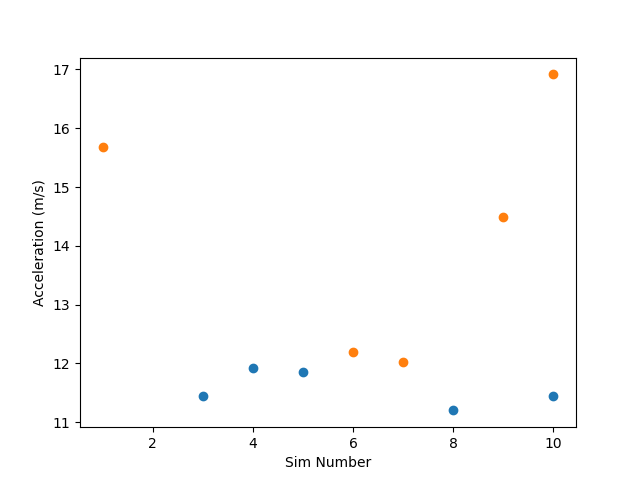
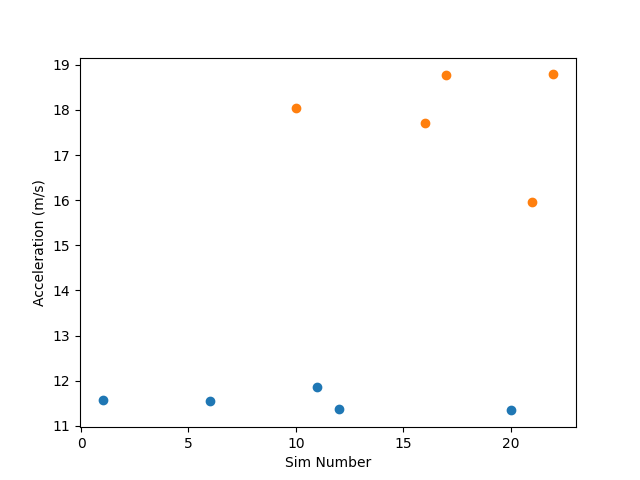
documents refixed

diff --git a/client/app/main.py b/client/app/main.py
@@ -189,13 +189,13 @@ def main():
     argparser.add_argument(
         "--sCount",
         type=int,
-        default=10,
+        default=25,
         help="Number of straight road simulations"
     )
     argparser.add_argument(
         "--cCount",
         type=int,
-        default=10,
+        default=25,
         help="Number of curved road simulations"
     )
     argparser.add_argument(

diff --git a/docs/curved_speed.md b/docs/curved_speed.md
@@ -2,13 +2,28 @@
 
 |SimulationNumber|V1 Speed|V2 Speed | Hero Speed 
 |---|---|---|---|
-|1|70.06333756702486|12.752395854766279|88.186636317318|
-|2|88.99247788913257|10.171416116549796|83.57159751480566|
-|3|72.0748579241606|1.6828104267370048|85.46434832855452|
-|4|71.63668741128424|9.699310297010427|75.5167893831129|
-|5|72.04863812004696|5.69845433486194|73.74254018652866|
-|6|89.10226979173035|14.31610717104787|80.04170378597257|
-|7|89.74000233564036|11.388894172216526|82.09062826208577|
-|8|86.54540167850178|12.521398225835307|84.9223487566041|
-|9|85.32423737002642|0.9534600071381916|70.01067467589915|
-|10|72.55087315508293|14.049714302531513|70.35756182992763|
+|1|80.44986234182306|8.307613760118098|81.13284604123643|
+|2|77.77904646487757|8.175714044952311|86.25924354158789|
+|3|78.25300215518126|11.103997733235044|89.07687267723168|
+|4|77.94328941098627|4.67728460708736|78.05667231287318|
+|5|77.84141932329915|11.559937995627486|82.98463979444381|
+|6|70.22746636833094|2.504355369164417|86.84986149361968|
+|7|72.53447890802963|4.127082175182116|81.5711293338183|
+|8|85.08971012112545|0.4461812199584414|88.2035347169434|
+|9|79.26247665401468|9.849860247081999|88.45598119223195|
+|10|77.83162443427248|15.443461961508234|84.70946232211638|
+|11|78.8875045288906|13.165330567309718|84.19932268436087|
+|12|83.78676523480647|15.284176113861317|85.9881250514184|
+|13|70.72475808052494|3.651615653800371|75.77482075172567|
+|14|76.69485749820885|11.71324317462749|85.32754820337885|
+|15|83.6226731903511|15.990130851925974|78.77696913730922|
+|16|78.3564057034897|15.540216498785494|87.85125968210407|
+|17|79.63907323613691|18.80551497182163|82.82440743910405|
+|18|76.0979611754059|13.082705890435484|89.29623271842303|
+|19|72.22454264402285|1.7716718688577493|81.34389038288816|
+|20|84.40830986636232|4.922540928707826|71.40667868384064|
+|21|70.80483605066634|12.621112155461509|75.78199062184437|
+|22|86.64890968578945|19.9383476943577|75.93529883254556|
+|23|85.08795023259253|15.551962198878824|74.97459499642147|
+|24|81.72090897582426|12.053532361308028|80.4140996206527|
+|25|86.70654881282515|0.00043931680550945984|88.45385669411068|

diff --git a/docs/straight_speed.md b/docs/straight_speed.md
@@ -2,13 +2,28 @@
 
 |SimulationNumber|V1 Speed|V2 Speed | Hero Speed 
 |---|---|---|---|
-|0|83.12714235246771|2.9434876881132066|87.02253335207591|
-|1|71.23217164124367|10.041259365252431|89.23022762778169|
-|2|73.67454488939948|11.377328680150711|88.16678211844741|
-|3|88.5881197375288|12.942882566518534|75.36516123015518|
-|4|88.89534038817217|13.188316661675138|73.39718572618854|
-|5|84.98960516760368|1.6051114413420664|86.12460893843235|
-|6|83.74282831163592|5.852304576855549|71.07215570332325|
-|7|80.90873997646192|19.655069534009485|88.67464272738027|
-|8|75.86380944525472|2.454769169438813|89.31093696706576|
-|9|88.39496757750157|10.294340410902585|89.10508156338058|
+|0|78.0609112158516|1.1223659824393017|89.14212149925082|
+|1|88.75160462383846|18.510993223601332|84.43089787355935|
+|2|74.3924547389646|8.966433238862763|80.77029090424756|
+|3|84.41934497215763|19.04803563791431|84.47051443023076|
+|4|89.31281250741557|6.2649324357292135|76.27221995005125|
+|5|81.91446914584945|12.497491560023652|71.83892293658126|
+|6|72.81158541258937|18.571058901487795|77.49992400298977|
+|7|84.25143116153002|19.96625311509178|77.5209584889994|
+|8|88.53765362303889|1.1500664905420632|81.72877362862039|
+|9|70.43141612890767|10.601616472394568|73.6299271741966|
+|10|86.65349461181465|12.34994863627978|75.02336750691127|
+|11|82.61367005501462|1.822440368222522|78.46511331449352|
+|12|77.4360566104991|5.8262346335923425|84.62108824346498|
+|13|87.13386470141833|19.49032272577737|84.1788939338633|
+|14|85.514256182139|5.414009054094273|83.15231436447948|
+|15|86.62897545675624|2.813359034675895|88.00956291008127|
+|16|73.53694636153418|6.6857030664711115|74.26569418701585|
+|17|83.12924806341101|2.0361214408787287|88.3600237614454|
+|18|70.97207688414439|19.776237576696115|72.37494911435024|
+|19|82.20582404497877|5.099267761001585|75.52115777586374|
+|20|80.56068475804047|7.361892625006625|86.9554325008883|
+|21|88.95878473850249|0.344041639296242|70.99342728912323|
+|22|79.83455076395713|1.387112489913962|81.26846152564042|
+|23|87.36885559668735|6.371253524704674|89.67008932098369|
+|24|73.18573338080301|11.230302901436449|76.4882673520775|

diff --git a/docs/straight_acc.md b/docs/straight_acc.md
@@ -2,13 +2,28 @@
 
 |SimulationNumber|Max acc| 
 |---|---|
-|1|10.908082853399849|
-|2|10.717714618900262|
-|3|11.450760656781101|
-|4|11.925149757837003|
-|5|11.859880884909144|
-|6|11.081197790328957|
-|7|11.071031868000551|
-|8|11.200541262347661|
-|9|10.992959573492348|
-|10|11.450276079250516|
+|1|11.568488003818443|
+|2|10.815803578584543|
+|3|11.132760123739766|
+|4|10.815078014350751|
+|5|10.626966353887399|
+|6|11.556293267534429|
+|7|10.82251063417255|
+|8|11.17589392563201|
+|9|10.792329001784484|
+|10|10.748221408553064|
+|11|11.861486188952535|
+|12|11.363380591550447|
+|13|11.240691353822596|
+|14|10.957715899550763|
+|15|10.747568601053862|
+|16|10.771745625001586|
+|17|11.259322564458573|
+|18|10.850792512536533|
+|19|10.202458289725472|
+|20|11.340937573124023|
+|21|11.322949595626522|
+|22|10.732848705947044|
+|23|11.165389424018269|
+|24|10.752221285580514|
+|25|10.921985664342834|

diff --git a/docs/curved_acc.md b/docs/curved_acc.md
@@ -2,13 +2,28 @@
 
 |SimulationNumber|Max acc| 
 |---|---|
-|10|16.916264830021063|
-|1|15.689608459375151|
-|9|14.494562099108224|
-|6|12.18622476647824|
-|7|12.027221835464818|
-|2|11.85768264612907|
-|4|11.787874262770604|
-|8|11.63091959206411|
-|3|10.809324097029931|
-|5|10.479284446545915|
+|22|18.78711144304373|
+|17|18.771088500436832|
+|10|18.050921834166875|
+|16|17.699608383659644|
+|21|15.948753694176308|
+|15|15.826627088732828|
+|25|15.031923830692655|
+|23|14.795202552321921|
+|12|14.579462674570774|
+|8|14.502500217248645|
+|11|13.128921464405407|
+|18|12.998113985671422|
+|20|12.489885651611035|
+|5|12.390319621202405|
+|14|12.082949363156871|
+|3|11.53013255214277|
+|24|11.316671899607112|
+|1|11.306729546299536|
+|9|11.15093133477439|
+|4|11.119531462049624|
+|2|11.092064880995887|
+|19|11.012935398034367|
+|7|10.929342206801167|
+|13|10.286437744300535|
+|6|10.025012949277516|

diff --git a/docs/straight_int.md b/docs/straight_int.md
@@ -1,5 +1,5 @@
 ## Straight road simulation parameters 
 
-* Simulation count:10
+* Simulation count:25
 * Simulation type:noRender
 * Plotted point count:5

diff --git a/docs/curved_int.md b/docs/curved_int.md
@@ -1,5 +1,5 @@
 ## Curved road simulation parameters 
 
-* Simulation count:10
+* Simulation count:25
 * Simulation type:noRender
 * Plotted point count:5
